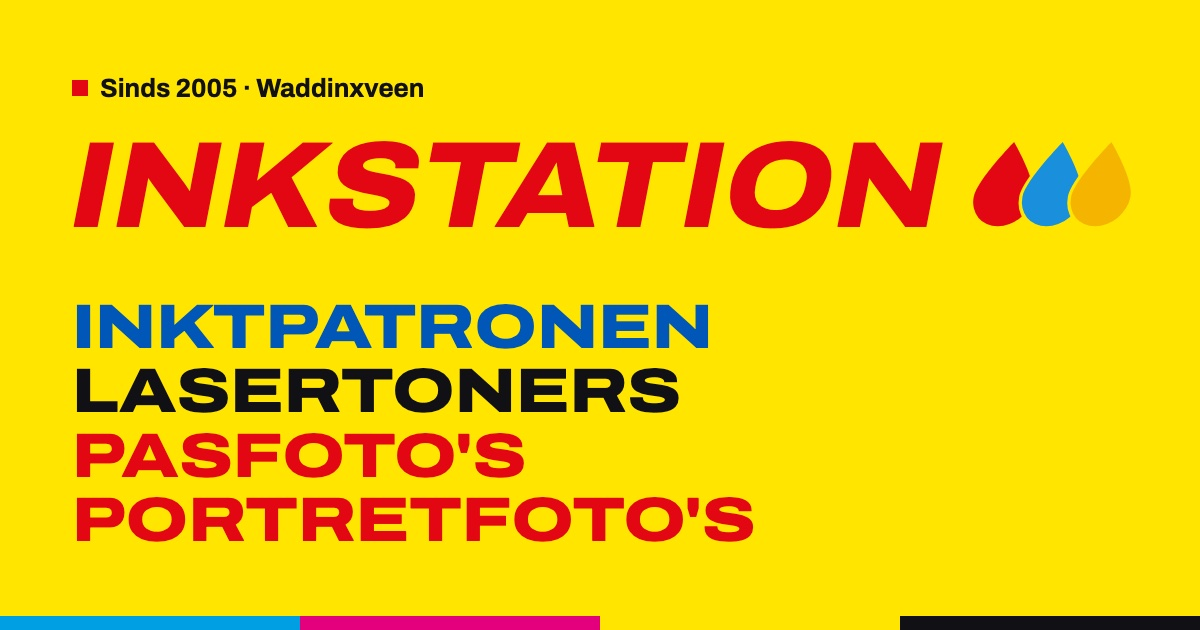
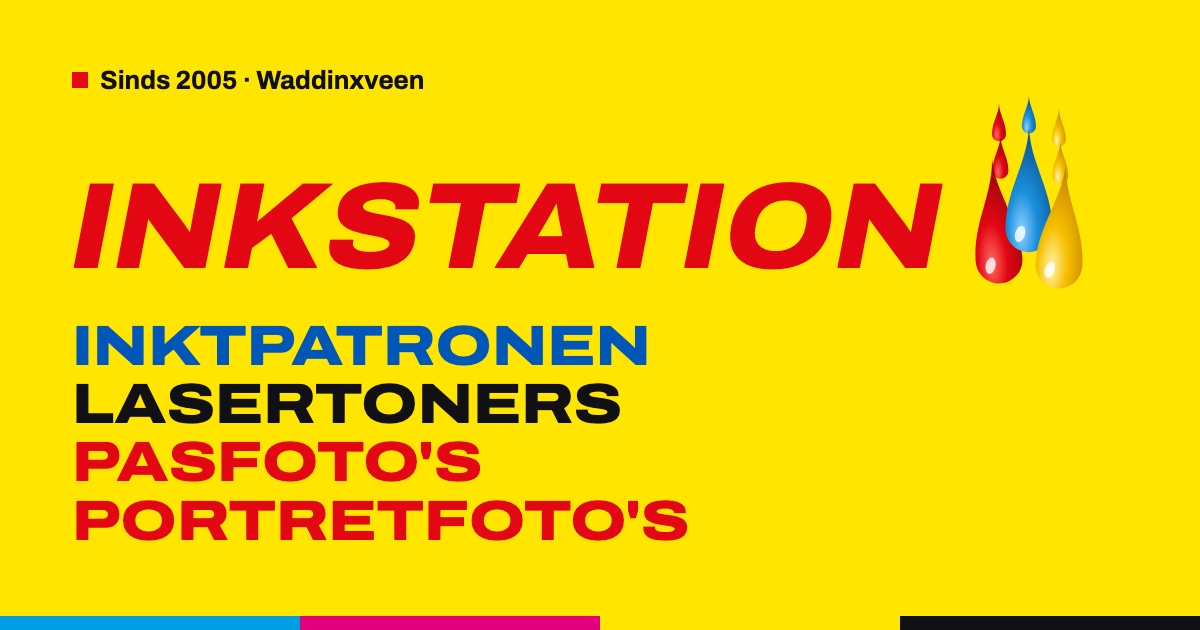
Inkstation: druppels zoals op de etalage, nieuwe Bel/Menu-knoppen op mobiel

Changed region(s): [[0.0617, 0.1508, 0.9558, 0.4524], [0.0617, 0.4825, 0.6475, 0.8746], [0.0617, 0.0905, 0.37, 0.181]]

diff --git a/inkstation/styles.css b/inkstation/styles.css
@@ -119,12 +119,13 @@ h3 { margin: 0 0 8px; font-size: var(--fs-h3); line-height: 1.2; font-weight: 70
 .text-link:hover { color: var(--accent-text); }
 
 /* Wordmark: INKSTATION in red bold italic, like the shop sign */
-.logo { display: inline-flex; align-items: center; gap: .2em; color: var(--logo); text-decoration: none; font-weight: 800; font-stretch: 112%; font-size: 26px; letter-spacing: -.005em; line-height: 1; }
+.logo { display: inline-flex; align-items: flex-end; gap: .24em; color: var(--logo); text-decoration: none; font-weight: 800; font-stretch: 112%; font-size: 26px; letter-spacing: -.005em; line-height: 1; }
 /* The slant is a skew of the upright font, so no separate italic file is needed and every browser draws it the same */
 .logo span { display: inline-block; transform: skewX(-11deg); }
 .logo-tile { background: var(--brand); padding: .4em .6em; }
-/* The shop window's three ink drops (red, blue, yellow) sit right after the name, as tall as the capitals */
-.drops { flex: none; width: 1.46em; height: .8em; margin-top: -.04em; }
+/* The shop window's ink drops sit right after the name, bottoms on the baseline and a little taller than the capitals.
+   Small version (no drips): 43 x 64 viewBox; the hero uses the full one with drips (43 x 75). */
+.drops { flex: none; width: calc(1.2em * 43 / 64); height: 1.2em; margin-bottom: -.02em; }
 
 /* Header */
 .site-head { position: sticky; top: 0; z-index: 20; background: var(--brand); box-shadow: 0 1px 0 rgba(17, 17, 20, .12); }
@@ -132,7 +133,9 @@ h3 { margin: 0 0 8px; font-size: var(--fs-h3); line-height: 1.2; font-weight: 70
 .nav { display: flex; gap: 28px; margin-left: auto; font-size: var(--fs-ui); font-weight: 700; }
 .nav a { text-decoration: underline; text-decoration-color: transparent; text-decoration-thickness: 2px; text-underline-offset: 6px; transition: text-decoration-color var(--dur) var(--ease); }
 .nav a:hover { text-decoration-color: var(--accent); }
-.btn-call { min-height: 44px; padding: 0 20px; }
+.btn-call { min-height: 44px; padding: 0 20px; gap: 8px; }
+/* Phone glyph: Material Symbols "call" (Apache 2.0) */
+.ico { width: 18px; height: 18px; fill: currentColor; flex: none; }
 .call-short { display: none; }
 .menu-btn { display: none; }
 
@@ -152,13 +155,14 @@ h3 { margin: 0 0 8px; font-size: var(--fs-h3); line-height: 1.2; font-weight: 70
 .where { font-size: var(--fs-ui); font-weight: 700; margin-bottom: 28px; display: flex; align-items: center; gap: 10px; }
 .where::before { content: ""; width: 12px; height: 12px; background: var(--accent); }
 /* Hero headline is the shop name itself, across the full width (Rens: "mag echt wel kapitaler").
-   "INKSTATION" plus the drops is 8.9em wide (measured), so 97cqi / 9.05 always fits. */
+   "INKSTATION" plus the drops is 8.45em wide (measured), so 97cqi / 8.6 always fits. */
 .hero-mark {
-  display: flex; align-items: center; gap: .16em; margin: 0;
-  font-size: clamp(28px, calc(97cqi / 9.05), 176px); font-weight: 800; font-stretch: 112%;
+  display: flex; align-items: flex-end; gap: .24em; margin: 0;
+  font-size: clamp(28px, calc(97cqi / 8.6), 176px); font-weight: 800; font-stretch: 112%;
   line-height: 1; letter-spacing: -.005em; text-transform: uppercase; color: var(--logo);
 }
 .mark-word { display: inline-block; transform: skewX(-11deg); }
+.hero-mark .drops { width: calc(1.6em * 43 / 75); height: 1.6em; }
 /* Under the name, the four product groups in the colours Rens asked for: blue, black, red, red */
 .groups {
   list-style: none; margin: 0 0 36px; padding: 0;
@@ -387,18 +391,30 @@ html[data-kleur="kobalt"] {
 }
 @media (max-width: 980px) {
   .bar { gap: 12px; }
+  /* Menu and Bel on the yellow bar: same height, Bel is the red call to action, Menu an outlined pill with a burger */
   .menu-btn {
-    display: inline-flex; align-items: center; min-height: 44px; padding: 0 18px; border: 0; border-radius: var(--pill);
-    background: var(--paper); color: var(--ink); font: 700 var(--fs-ui)/1 "Archivo", system-ui, sans-serif; cursor: pointer;
-    min-width: 84px; justify-content: center;
+    display: inline-flex; align-items: center; justify-content: center; gap: 8px; min-height: 44px; padding: 0 16px 0 14px;
+    border: 0; border-radius: var(--pill); background: transparent; color: var(--ink); box-shadow: inset 0 0 0 2px var(--ink);
+    font: 700 var(--fs-ui)/1 "Archivo", system-ui, sans-serif; cursor: pointer;
+    transition: background-color var(--dur) var(--ease), color var(--dur) var(--ease);
   }
-  .btn-call { margin-left: auto; }
+  .burger { position: relative; width: 16px; height: 12px; flex: none; }
+  .burger i { position: absolute; left: 0; width: 100%; height: 2px; border-radius: 2px; background: currentColor; transition: transform var(--dur) var(--ease), opacity var(--dur) var(--ease); }
+  .burger i:nth-child(1) { top: 0; }
+  .burger i:nth-child(2) { top: 5px; }
+  .burger i:nth-child(3) { top: 10px; }
   .menu-btn[aria-expanded="true"] { background: var(--ink); color: var(--paper); }
+  .menu-btn[aria-expanded="true"] .burger i:nth-child(1) { transform: translateY(5px) rotate(45deg); }
+  .menu-btn[aria-expanded="true"] .burger i:nth-child(2) { opacity: 0; }
+  .menu-btn[aria-expanded="true"] .burger i:nth-child(3) { transform: translateY(-5px) rotate(-45deg); }
+  .btn-call { margin-left: auto; background: var(--accent); color: var(--on-accent); }
+  .btn-call:hover { background: var(--accent-deep); color: var(--on-accent); }
   .nav {
     display: none; position: absolute; left: 0; right: 0; top: 100%; height: 100dvh;
     flex-direction: column; gap: 0; margin: 0; padding: 12px var(--gutter) 40px;
     background: var(--paper); border-top: 1px solid var(--line);
-    font-size: var(--fs-h2); font-weight: 800; font-stretch: 125%; text-transform: uppercase; line-height: 1;
+    /* "LASERTONER" is the longest word (about 9.8em), so the size follows the screen width on phones */
+    font-size: min(var(--fs-h2), 8.6vw); font-weight: 800; font-stretch: 125%; text-transform: uppercase; line-height: 1;
   }
   .nav.is-open { display: flex; }
   .nav a { padding: 18px 0; border-bottom: 1px solid var(--line); }
@@ -421,12 +437,12 @@ html[data-kleur="kobalt"] {
 @media (max-width: 600px) {
   :root { --gutter: 16px; --section: 72px; --fs-lead: 18px; --fs-h3: 21px; }
   body { font-size: 16px; }
-  .bar { height: 68px; }
+  .bar { height: 68px; gap: 8px; }
   .logo { font-size: 20px; }
-  .menu-btn { min-width: 76px; padding: 0 16px; }
+
   .call-long { display: none; }
   .call-short { display: inline; }
-  .btn-call { padding: 0 18px; }
+  .btn-call { padding: 0 16px 0 14px; }
   .hero-sign { padding: 36px var(--gutter) 16px; }
   /* Phones: keep the name clearly bigger than the product groups under it */
   .groups { font-size: min(24px, calc(97cqi / 11.2)); }
@@ -469,10 +485,12 @@ html[data-kleur="kobalt"] {
   /* Small phones (320 wide): logo, Bel and Menu still on one line */
   .bar { gap: 8px; }
   .logo { font-size: 17px; }
-  .btn-call { padding: 0 14px; }
-  .menu-btn { min-width: 0; padding: 0 14px; }
+  /* Bel becomes a round phone button here; the link keeps its "Bel 0182 630 949" label for screen readers */
+  .btn-call { width: 44px; padding: 0; }
+  .call-short { display: none; }
+  .menu-btn { padding: 0 12px; }
 }
 @media (prefers-reduced-motion: reduce) {
   html { scroll-behavior: auto; }
-  .btn, .nav a, .text-link, .score-link, .index b, .sticker, .groups a { transition: none; }
+  .btn, .nav a, .text-link, .score-link, .index b, .sticker, .groups a, .menu-btn, .burger i { transition: none; }
 }

diff --git a/inkstation/index.html b/inkstation/index.html
@@ -30,8 +30,8 @@
     document.documentElement.setAttribute("data-kleur", k || "huisstijl");
   })();
 </script>
-<link rel="stylesheet" href="styles.css?v=41">
-<script src="script.js?v=20" defer></script>
+<link rel="stylesheet" href="styles.css?v=46">
+<script src="script.js?v=21" defer></script>
 <!-- Structured data so Google can show address, phone and opening hours. Regular hours only; keep in step with content/winkel.json. -->
 <script type="application/ld+json">
 {
@@ -70,8 +70,10 @@
 <body>
 <a class="skip" href="#main">Naar de inhoud</a>
 <svg width="0" height="0" style="position:absolute" aria-hidden="true">
-  <!-- The three ink drops from the shop window (red, blue, yellow): flat, overlapping and slanted like the letters, cut apart with the background colour. Drawn once, reused next to every INKSTATION. -->
-  <symbol id="drops" viewBox="-1 -1 30 16.4"><defs><path id="drop" d="M5 0C5 0 0 6.4 0 9.2a5 5 0 0 0 10 0C10 6.4 5 0 5 0Z"/></defs><g transform="skewX(-11) translate(2.6 0)" stroke-width="1.1" paint-order="stroke" style="stroke: var(--brand, #ffe500)"><use href="#drop" fill="#e30613"/><use href="#drop" x="8.2" fill="#1a8fdc"/><use href="#drop" x="16.4" fill="#f5b400"/></g></symbol>
+  <!-- The ink drops from the shop window, drawn after the window sticker: tall glossy drops, red / blue (higher) / yellow, with the small drips above.
+       #drops is the full version for the big name; #drops-s leaves the drips out for small sizes (menu bar, footer). -->
+  <symbol id="drops" viewBox="-1 0 43 75"><defs><radialGradient id="dgr" cx="38%" cy="80%" r="75%" fx="34%" fy="84%"><stop offset="0" stop-color="#ff6a5e"/><stop offset=".42" stop-color="#e30613"/><stop offset="1" stop-color="#990610"/></radialGradient><radialGradient id="dgb" cx="38%" cy="80%" r="75%" fx="34%" fy="84%"><stop offset="0" stop-color="#8fd0ff"/><stop offset=".42" stop-color="#1a8fdc"/><stop offset="1" stop-color="#0a5591"/></radialGradient><radialGradient id="dgy" cx="38%" cy="80%" r="75%" fx="34%" fy="84%"><stop offset="0" stop-color="#fff4a8"/><stop offset=".42" stop-color="#f7bf00"/><stop offset="1" stop-color="#c48600"/></radialGradient></defs><g transform="translate(6.3 3) scale(0.3)"><path d="M9 0C9.6 14 18 24 18 39a9 9 0 0 1-18 0C0 24 8.4 14 9 0Z" fill="url(#dgr)"/></g><g transform="translate(6.5 15.5) scale(0.34)"><path d="M9 0C9.6 14 18 24 18 39a9 9 0 0 1-18 0C0 24 8.4 14 9 0Z" fill="url(#dgr)"/></g><g transform="translate(17.8 0) scale(0.3)"><path d="M9 0C9.6 14 18 24 18 39a9 9 0 0 1-18 0C0 24 8.4 14 9 0Z" fill="url(#dgb)"/></g><g transform="translate(29.3 5) scale(0.3)"><path d="M9 0C9.6 14 18 24 18 39a9 9 0 0 1-18 0C0 24 8.4 14 9 0Z" fill="url(#dgy)"/></g><g transform="translate(29.5 17.5) scale(0.34)"><path d="M9 0C9.6 14 18 24 18 39a9 9 0 0 1-18 0C0 24 8.4 14 9 0Z" fill="url(#dgy)"/></g><g transform="translate(0 24) rotate(-4 9 39)"><path d="M9 0C9.6 14 18 24 18 39a9 9 0 0 1-18 0C0 24 8.4 14 9 0Z" fill="url(#dgr)"/><ellipse cx="5.6" cy="41" rx="1.9" ry="3.2" transform="rotate(16 5.6 41)" fill="#fff" opacity=".8"/></g><g transform="translate(11.5 12) rotate(0 9 39)"><path d="M9 0C9.6 14 18 24 18 39a9 9 0 0 1-18 0C0 24 8.4 14 9 0Z" fill="url(#dgb)"/><ellipse cx="5.6" cy="41" rx="1.9" ry="3.2" transform="rotate(16 5.6 41)" fill="#fff" opacity=".8"/></g><g transform="translate(23 26) rotate(4 9 39)"><path d="M9 0C9.6 14 18 24 18 39a9 9 0 0 1-18 0C0 24 8.4 14 9 0Z" fill="url(#dgy)"/><ellipse cx="5.6" cy="41" rx="1.9" ry="3.2" transform="rotate(16 5.6 41)" fill="#fff" opacity=".8"/></g></symbol>
+  <symbol id="drops-s" viewBox="-1 11 43 64"><defs><radialGradient id="dsr" cx="38%" cy="80%" r="75%" fx="34%" fy="84%"><stop offset="0" stop-color="#ff6a5e"/><stop offset=".42" stop-color="#e30613"/><stop offset="1" stop-color="#990610"/></radialGradient><radialGradient id="dsb" cx="38%" cy="80%" r="75%" fx="34%" fy="84%"><stop offset="0" stop-color="#8fd0ff"/><stop offset=".42" stop-color="#1a8fdc"/><stop offset="1" stop-color="#0a5591"/></radialGradient><radialGradient id="dsy" cx="38%" cy="80%" r="75%" fx="34%" fy="84%"><stop offset="0" stop-color="#fff4a8"/><stop offset=".42" stop-color="#f7bf00"/><stop offset="1" stop-color="#c48600"/></radialGradient></defs><g transform="translate(0 24) rotate(-4 9 39)"><path d="M9 0C9.6 14 18 24 18 39a9 9 0 0 1-18 0C0 24 8.4 14 9 0Z" fill="url(#dsr)"/><ellipse cx="5.6" cy="41" rx="1.9" ry="3.2" transform="rotate(16 5.6 41)" fill="#fff" opacity=".8"/></g><g transform="translate(11.5 12) rotate(0 9 39)"><path d="M9 0C9.6 14 18 24 18 39a9 9 0 0 1-18 0C0 24 8.4 14 9 0Z" fill="url(#dsb)"/><ellipse cx="5.6" cy="41" rx="1.9" ry="3.2" transform="rotate(16 5.6 41)" fill="#fff" opacity=".8"/></g><g transform="translate(23 26) rotate(4 9 39)"><path d="M9 0C9.6 14 18 24 18 39a9 9 0 0 1-18 0C0 24 8.4 14 9 0Z" fill="url(#dsy)"/><ellipse cx="5.6" cy="41" rx="1.9" ry="3.2" transform="rotate(16 5.6 41)" fill="#fff" opacity=".8"/></g></symbol>
 </svg>
 
 <div class="concept" role="note">Voorbeeldontwerp door Valentijn de Grijff. Dit is nog niet de echte website van Inkstation.</div>
@@ -79,7 +81,7 @@
 <header class="site-head">
   <div class="wrap bar">
     <a class="logo" href="#top" aria-label="Inkstation, naar boven">
-      <span aria-hidden="true">INKSTATION</span><svg class="drops" aria-hidden="true"><use href="#drops"/></svg>
+      <span aria-hidden="true">INKSTATION</span><svg class="drops" aria-hidden="true"><use href="#drops-s"/></svg>
     </a>
     <nav class="nav" id="nav" aria-label="Hoofdmenu">
       <a href="#inkt">Inkt &amp; lasertoner</a>
@@ -88,8 +90,8 @@
       <a href="#video">Digitaliseren</a>
       <a href="#langskomen">Langskomen</a>
     </nav>
-    <a class="btn btn-ink btn-call" href="tel:+31182630949"><span class="call-long">0182 630 949</span><span class="call-short">Bel</span></a>
-    <button class="menu-btn" type="button" aria-expanded="false" aria-controls="nav">Menu</button>
+    <a class="btn btn-ink btn-call" href="tel:+31182630949" aria-label="Bel 0182 630 949"><svg class="ico" viewBox="0 -960 960 960" aria-hidden="true"><path d="M798-120q-125 0-247-54.5T329-329Q229-429 174.5-551T120-798q0-18 12-30t30-12h162q14 0 25 9.5t13 22.5l26 140q2 16-1 27t-11 19l-97 98q20 37 47.5 71.5T387-386q31 31 65 57.5t72 48.5l94-94q9-9 23.5-13.5T670-390l138 28q14 4 23 14.5t9 23.5v162q0 18-12 30t-30 12Z"/></svg><span class="call-long">0182 630 949</span><span class="call-short">Bel</span></a>
+    <button class="menu-btn" type="button" aria-expanded="false" aria-controls="nav"><span class="burger" aria-hidden="true"><i></i><i></i><i></i></span><span class="menu-label">Menu</span></button>
   </div>
 </header>
 
@@ -302,7 +304,7 @@
   <div class="cmyk" aria-hidden="true"><i></i><i></i><i></i><i></i></div>
   <div class="wrap foot">
     <a class="logo logo-tile" href="#top" aria-label="Inkstation, naar boven">
-      <span aria-hidden="true">INKSTATION</span><svg class="drops" aria-hidden="true"><use href="#drops"/></svg>
+      <span aria-hidden="true">INKSTATION</span><svg class="drops" aria-hidden="true"><use href="#drops-s"/></svg>
     </a>
     <div class="foot-meta">
       <p>Inkstation, sinds 2005 · Passage 63 · 2741 HB Waddinxveen · KvK 24377836</p>

diff --git a/inkstation/admin/index.html b/inkstation/admin/index.html
@@ -8,13 +8,14 @@
 <meta name="theme-color" content="#ffe500">
 <link rel="icon" href="../favicon.svg" type="image/svg+xml">
 <link rel="preload" href="../fonts/archivo-latin.woff2" as="font" type="font/woff2" crossorigin>
-<link rel="stylesheet" href="admin.css?v=4">
+<link rel="stylesheet" href="admin.css?v=5">
 <script src="admin.js?v=3" defer></script>
 </head>
 <body>
 <!-- Beheerpagina voor Rens: openingstijden, vakantie en de aanbieding. Opslaan gaat via api.php naar ../content/winkel.json. -->
 <svg width="0" height="0" style="position:absolute" aria-hidden="true">
-  <symbol id="drops" viewBox="-1 -1 30 16.4"><defs><path id="drop" d="M5 0C5 0 0 6.4 0 9.2a5 5 0 0 0 10 0C10 6.4 5 0 5 0Z"/></defs><g transform="skewX(-11) translate(2.6 0)" stroke-width="1.1" paint-order="stroke" style="stroke: var(--brand, #ffe500)"><use href="#drop" fill="#e30613"/><use href="#drop" x="8.2" fill="#1a8fdc"/><use href="#drop" x="16.4" fill="#f5b400"/></g></symbol>
+  <symbol id="drops" viewBox="-1 0 43 75"><defs><radialGradient id="dgr" cx="38%" cy="80%" r="75%" fx="34%" fy="84%"><stop offset="0" stop-color="#ff6a5e"/><stop offset=".42" stop-color="#e30613"/><stop offset="1" stop-color="#990610"/></radialGradient><radialGradient id="dgb" cx="38%" cy="80%" r="75%" fx="34%" fy="84%"><stop offset="0" stop-color="#8fd0ff"/><stop offset=".42" stop-color="#1a8fdc"/><stop offset="1" stop-color="#0a5591"/></radialGradient><radialGradient id="dgy" cx="38%" cy="80%" r="75%" fx="34%" fy="84%"><stop offset="0" stop-color="#fff4a8"/><stop offset=".42" stop-color="#f7bf00"/><stop offset="1" stop-color="#c48600"/></radialGradient></defs><g transform="translate(6.3 3) scale(0.3)"><path d="M9 0C9.6 14 18 24 18 39a9 9 0 0 1-18 0C0 24 8.4 14 9 0Z" fill="url(#dgr)"/></g><g transform="translate(6.5 15.5) scale(0.34)"><path d="M9 0C9.6 14 18 24 18 39a9 9 0 0 1-18 0C0 24 8.4 14 9 0Z" fill="url(#dgr)"/></g><g transform="translate(17.8 0) scale(0.3)"><path d="M9 0C9.6 14 18 24 18 39a9 9 0 0 1-18 0C0 24 8.4 14 9 0Z" fill="url(#dgb)"/></g><g transform="translate(29.3 5) scale(0.3)"><path d="M9 0C9.6 14 18 24 18 39a9 9 0 0 1-18 0C0 24 8.4 14 9 0Z" fill="url(#dgy)"/></g><g transform="translate(29.5 17.5) scale(0.34)"><path d="M9 0C9.6 14 18 24 18 39a9 9 0 0 1-18 0C0 24 8.4 14 9 0Z" fill="url(#dgy)"/></g><g transform="translate(0 24) rotate(-4 9 39)"><path d="M9 0C9.6 14 18 24 18 39a9 9 0 0 1-18 0C0 24 8.4 14 9 0Z" fill="url(#dgr)"/><ellipse cx="5.6" cy="41" rx="1.9" ry="3.2" transform="rotate(16 5.6 41)" fill="#fff" opacity=".8"/></g><g transform="translate(11.5 12) rotate(0 9 39)"><path d="M9 0C9.6 14 18 24 18 39a9 9 0 0 1-18 0C0 24 8.4 14 9 0Z" fill="url(#dgb)"/><ellipse cx="5.6" cy="41" rx="1.9" ry="3.2" transform="rotate(16 5.6 41)" fill="#fff" opacity=".8"/></g><g transform="translate(23 26) rotate(4 9 39)"><path d="M9 0C9.6 14 18 24 18 39a9 9 0 0 1-18 0C0 24 8.4 14 9 0Z" fill="url(#dgy)"/><ellipse cx="5.6" cy="41" rx="1.9" ry="3.2" transform="rotate(16 5.6 41)" fill="#fff" opacity=".8"/></g></symbol>
+  <symbol id="drops-s" viewBox="-1 11 43 64"><defs><radialGradient id="dsr" cx="38%" cy="80%" r="75%" fx="34%" fy="84%"><stop offset="0" stop-color="#ff6a5e"/><stop offset=".42" stop-color="#e30613"/><stop offset="1" stop-color="#990610"/></radialGradient><radialGradient id="dsb" cx="38%" cy="80%" r="75%" fx="34%" fy="84%"><stop offset="0" stop-color="#8fd0ff"/><stop offset=".42" stop-color="#1a8fdc"/><stop offset="1" stop-color="#0a5591"/></radialGradient><radialGradient id="dsy" cx="38%" cy="80%" r="75%" fx="34%" fy="84%"><stop offset="0" stop-color="#fff4a8"/><stop offset=".42" stop-color="#f7bf00"/><stop offset="1" stop-color="#c48600"/></radialGradient></defs><g transform="translate(0 24) rotate(-4 9 39)"><path d="M9 0C9.6 14 18 24 18 39a9 9 0 0 1-18 0C0 24 8.4 14 9 0Z" fill="url(#dsr)"/><ellipse cx="5.6" cy="41" rx="1.9" ry="3.2" transform="rotate(16 5.6 41)" fill="#fff" opacity=".8"/></g><g transform="translate(11.5 12) rotate(0 9 39)"><path d="M9 0C9.6 14 18 24 18 39a9 9 0 0 1-18 0C0 24 8.4 14 9 0Z" fill="url(#dsb)"/><ellipse cx="5.6" cy="41" rx="1.9" ry="3.2" transform="rotate(16 5.6 41)" fill="#fff" opacity=".8"/></g><g transform="translate(23 26) rotate(4 9 39)"><path d="M9 0C9.6 14 18 24 18 39a9 9 0 0 1-18 0C0 24 8.4 14 9 0Z" fill="url(#dsy)"/><ellipse cx="5.6" cy="41" rx="1.9" ry="3.2" transform="rotate(16 5.6 41)" fill="#fff" opacity=".8"/></g></symbol>
 </svg>
 
 <!-- Inloggen -->
@@ -43,7 +44,7 @@
 <!-- Beheren -->
 <div class="app" id="app" hidden>
   <header class="topbar">
-    <a class="mark mark-small" href="../" aria-label="Naar de website"><span>INKSTATION</span><svg class="drops" aria-hidden="true"><use href="#drops"/></svg></a>
+    <a class="mark mark-small" href="../" aria-label="Naar de website"><span>INKSTATION</span><svg class="drops" aria-hidden="true"><use href="#drops-s"/></svg></a>
     <p class="save-state" id="save-state" aria-live="polite">Alles is opgeslagen</p>
     <div class="topbar-actions">
       <button class="btn btn-line btn-preview" type="button" id="open-preview">Voorbeeld</button>

diff --git a/inkstation/admin/admin.css b/inkstation/admin/admin.css
@@ -18,10 +18,11 @@ button, input, textarea { font: inherit; color: inherit; }
 p { margin: 0; }
 
 /* Wordmark */
-.mark { display: inline-flex; align-items: center; gap: .16em; margin: 0; color: var(--red); text-decoration: none;
+.mark { display: inline-flex; align-items: flex-end; gap: .24em; margin: 0; color: var(--red); text-decoration: none;
   font-weight: 800; font-stretch: 112%; line-height: 1; letter-spacing: -.005em; }
 .mark span { display: inline-block; transform: skewX(-11deg); }
-.drops { flex: none; width: 1.46em; height: .8em; margin-top: -.04em; }
+.drops { flex: none; width: calc(1.2em * 43 / 64); height: 1.2em; margin-bottom: -.02em; }
+.login .mark .drops { width: calc(1.6em * 43 / 75); height: 1.6em; }
 .mark-small { font-size: 22px; }
 
 /* Buttons */

diff --git a/inkstation/script.js b/inkstation/script.js
@@ -175,7 +175,7 @@ var nav = document.getElementById("nav");
 function setMenu(open) {
   nav.classList.toggle("is-open", open);
   menuBtn.setAttribute("aria-expanded", String(open));
-  menuBtn.textContent = open ? "Sluit" : "Menu";
+  menuBtn.querySelector(".menu-label").textContent = open ? "Sluit" : "Menu";
   // Lock the page behind the full-height menu so it can't scroll underneath.
   document.documentElement.style.overflow = open ? "hidden" : "";
 }
